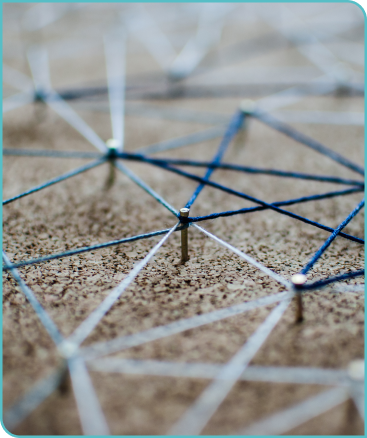
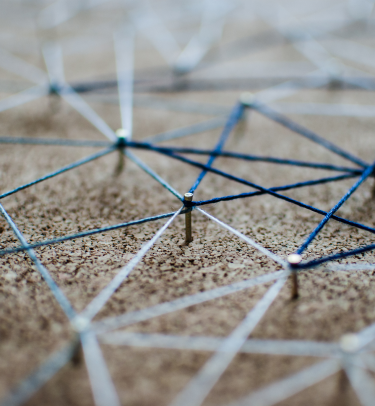
PORTAL-303: Implement - Mobile/Responsive About Page (#146)
* added float: right; to img

added float: right; to img

* Deleted min-width: 1440px;

Deleted min-width: 1440px;

* Updated img

Updated img

* Added max-width: 890px

Added max-width: 890px

* Changed the layout

Changed the layout

* Changed margin to 6.5% when is smaller than 768

Changed margin to 6.5% when is smaller than 768

* Changed the img to object-fit: cover;

Changed the img to object-fit: cover;

* Fixed margin

Fixed margin

* Changed the margin

Changed the margin

diff --git a/src/pages/about/aboutView.js b/src/pages/about/aboutView.js
@@ -1,12 +1,11 @@
 import React from 'react';
 import styled from 'styled-components';
 import {aboutData} from '../../bento/aboutPageData';
-import aboutImg from '../../assets/about/About_Img.png';
+import aboutImg from '../../assets/about/About_Img_Large.png';
 import exportIcon from '../../assets/about/Export_Icon.svg';
 import ReactHtmlParser from 'html-react-parser';
 
 const AboutContainer = styled.div`
-  width: 1440px;
   margin: 0 auto;
 
   .aboutHeader {
@@ -18,13 +17,18 @@ const AboutContainer = styled.div`
     text-align: center;
   }
   .aboutBody {
-    width: 1080px;
     font-family: Inter;
     font-weight: 400;
     font-size: 16px;
     color: #000000;
-    margin: 0 auto;
-    margin-bottom: 50px;
+    margin: 0 50px;
+    margin-bottom: 150px;
+    letter-spacing: 0.02em;
+    line-height: 24px;
+  }
+
+  .upperContainer {
+    display: flex;
   }
 
   .aboutSubtitle {
@@ -34,31 +38,17 @@ const AboutContainer = styled.div`
     color: #007A85;
   }
 
-  .aboutBodyUpperContainer {
-    display: flex;
-  }
-
-  .upperText {
-    width: 671px;
-    margin-right: 42px;
-    letter-spacing: 0.02em;
-    line-height: 24px;
-  }
-
   .textParagraph {
     margin: 25px 0 50px 0;
   }
 
   .upperImg {
-    background-image: url(${aboutImg});
-    width: 367px;
-    height: 438px;
-  }
-
-  .aboutBodyLowerContainer {
-    margin: 64px 0 120px 0;
-    letter-spacing: 0.02em;
-    line-height: 27px;
+    width: 432px;
+    height: 416px;
+    margin-left: 41px;
+    border: 2.5px solid #4BBFC6;
+    border-radius: 0 20px;
+    object-fit: cover;
   }
 
   .aboutLink {
@@ -67,6 +57,52 @@ const AboutContainer = styled.div`
     font-weight: 600;
     padding-right: 20px;
     background: url(${exportIcon}) right center no-repeat;
+    text-underline-offset: 4px;
+  }
+
+  @media (max-width: 1364px) {
+    .upperImg {
+      width: 300px;
+      height: 353px;
+      margin-left: 37px;
+    }
+    .secondParagraph {
+      display: none;
+    }
+  }
+
+  @media (max-width: 767px) {
+    .aboutHeader {
+      color: #FFFFFF;
+      background: rgba(0, 95, 103, 0.85);
+      height: 141px;
+      line-height: 141px;
+      margin: 120px 0 182px 0;
+    }
+    .upperImg {
+      position: absolute;
+      width: 100%;
+      height: 406px;
+      left: 0;
+      top: 130px;
+      margin: 0;
+      z-index: -1;
+      border: none;
+      border-radius: 0;
+    }
+    .aboutBody {
+      margin: 0 6.5% 150px 6.5%;
+    }
+  }
+
+  @media (min-width: 1365px) {
+    .aboutBody {
+      width: 1265px;
+      margin: 0 auto 150px auto;
+    }
+    .lowerContainer {
+      display: none;
+    }
   }
 `;
 
@@ -75,14 +111,20 @@ const AboutView = () => {
     <AboutContainer>
       <div className='aboutHeader'>About</div>
       <div className='aboutBody'>
-        <div className='aboutBodyUpperContainer'>
-          <div className='upperText'>
+        <div className='upperContainer'>
+          <div className='upperContentContainer'>
             <div className='aboutSubtitle'>{aboutData.upperTitle}</div>
             <div className='textParagraph'>{ReactHtmlParser(aboutData.upperText)}</div>
-            <div className='aboutSubtitle'>{aboutData.lowerTitle}</div>
-            <div className='textParagraph'>{ReactHtmlParser(aboutData.lowerText)}</div>
+            <div className='secondParagraph'>
+              <div className='aboutSubtitle'>{aboutData.lowerTitle}</div>
+              <div className='textParagraph'>{ReactHtmlParser(aboutData.lowerText)}</div>
+            </div>
           </div>
-          <div className='upperImg'></div>
+          <img className='upperImg' src={aboutImg} alt="about_img" />
+        </div>
+        <div className='lowerContainer'>
+          <div className='aboutSubtitle'>{aboutData.lowerTitle}</div>
+          <div className='textParagraph'>{ReactHtmlParser(aboutData.lowerText)}</div>
         </div>
       </div>
     </AboutContainer>

diff --git a/public/index.html b/public/index.html
@@ -48,7 +48,7 @@
   <style type="text/css">
     body {
       padding-right: 0px !important;
-      min-width: 1440px;
+      /* min-width: 1440px; */
     }
 
     #root {
